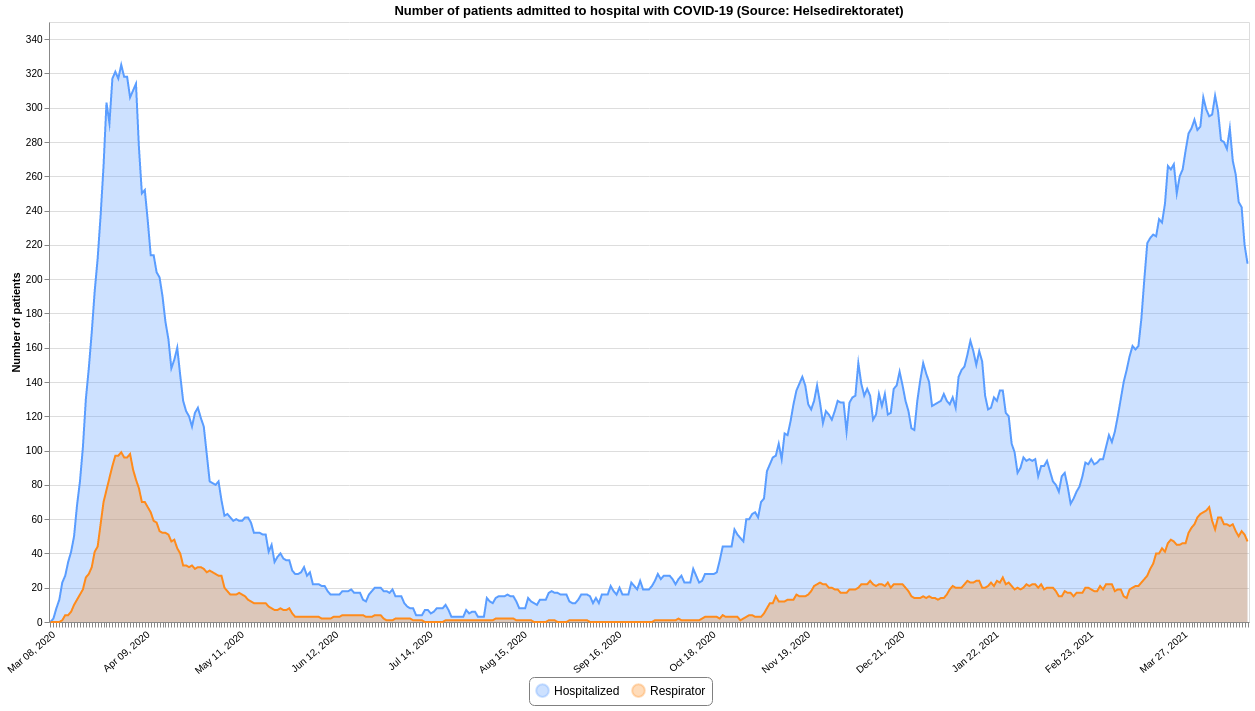
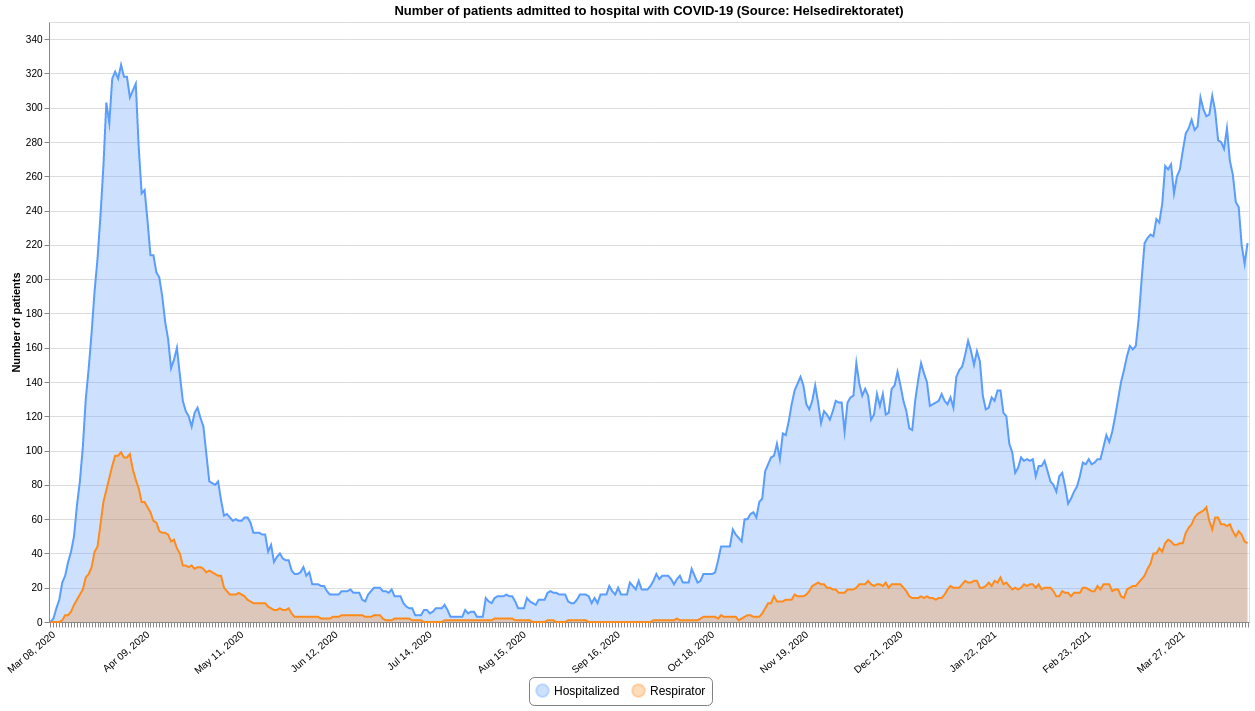
Updated 2021-04-19 13:00

diff --git a/README.md b/README.md
@@ -12,8 +12,8 @@ This repository contains datasets of daily time-series data related to COVID-19 
 | :--- | :--- | :--- | :--- | :--- |
 |[Confirmed](#confirmedcsv)|FHI / MSIS|2021-04-19 00:10:46+02:00|[<center>csv</center>](https://raw.githubusercontent.com/frefrik/c19norge-data/main/data/confirmed.csv)|[<center>preview</center>](data/confirmed.csv)|
 |[Dead](#deadcsv)|FHI|2021-04-16 13:30:56+02:00|[<center>csv</center>](https://raw.githubusercontent.com/frefrik/c19norge-data/main/data/dead.csv)|[<center>preview</center>](data/dead.csv)|
-|[Hospitalized](#hospitalizedcsv)|Helsedirektoratet|2021-04-18 13:00:44+02:00|[<center>csv</center>](https://raw.githubusercontent.com/frefrik/c19norge-data/main/data/hospitalized.csv)|[<center>preview</center>](data/hospitalized.csv)|
-|[Tested](#testedcsv)|FHI|2021-04-16 13:00:43+02:00|[<center>csv</center>](https://raw.githubusercontent.com/frefrik/c19norge-data/main/data/tested.csv)|[<center>preview</center>](data/tested.csv)|
+|[Hospitalized](#hospitalizedcsv)|Helsedirektoratet|2021-04-19 13:00:41+02:00|[<center>csv</center>](https://raw.githubusercontent.com/frefrik/c19norge-data/main/data/hospitalized.csv)|[<center>preview</center>](data/hospitalized.csv)|
+|[Tested](#testedcsv)|FHI|2021-04-19 13:00:39+02:00|[<center>csv</center>](https://raw.githubusercontent.com/frefrik/c19norge-data/main/data/tested.csv)|[<center>preview</center>](data/tested.csv)|
 |[Tested Lab](#tested_labcsv)|FHI|2021-04-16 13:30:52+02:00|[<center>csv</center>](https://raw.githubusercontent.com/frefrik/c19norge-data/main/data/tested_lab.csv)|[<center>preview</center>](data/tested_lab.csv)|
 |[Transport](#transportcsv)|FHI|2021-04-16 11:20:50+02:00|[<center>csv</center>](https://raw.githubusercontent.com/frefrik/c19norge-data/main/data/transport.csv)|[<center>preview</center>](data/transport.csv)|
 |[Vaccine Doses](#vaccine_dosescsv)|FHI|2021-04-16 13:30:57+02:00|[<center>csv</center>](https://raw.githubusercontent.com/frefrik/c19norge-data/main/data/vaccine_doses.csv)|[<center>preview</center>](data/vaccine_doses.csv)|
